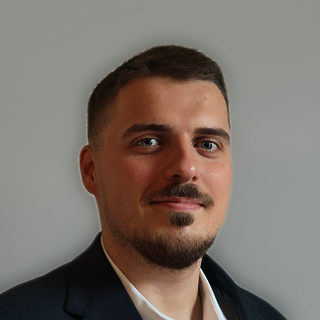
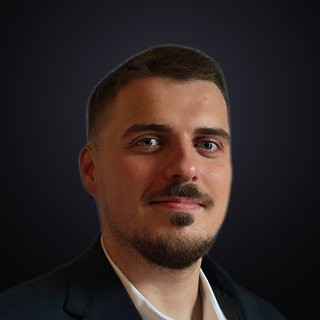
Das Porträt steht auf dem Grund der Seite, nicht auf einer Wand
Die erste Fassung sah aufgeklebt aus, und das lag nicht an der Aufnahme.
Die Seite steht auf #08080a; eine helle Wohnungswand darin war die einzige
helle Fläche der ganzen Seite und damit das Erste, was man sah — und alles
daneben wirkte dadurch mit ihr uneins.

Gegengeprüft, ob es an Schrift oder Farbe liegt: Über die ausgelieferte
Startseite gezählt drei Schriftfamilien (Geist 522 Vorkommen, Geist Mono
185, Instrument Serif 2 für die Akzentwörter) und sechs Textfarben, alle
aus den Token. Es gibt dort keine Abweichung. Fremd war nur das Bild.

Der Hintergrund ist jetzt ein Lichtschein hinter dem Kopf, der zu den
Rändern in die Seitenfarbe ausläuft. Das Haar (gemessen Helligkeit 26)
braucht oben etwas Helles, um sich abzuzeichnen; das Sakko (51 bis 60)
steht unten von selbst gegen das Dunkle. Der Mensch bleibt unverändert.

Die Maske musste dafür enger sitzen: In ihrem weichen Saum stecken Pixel
der hellen Wand, und auf fast schwarzem Grund wurden daraus ein Lichtkranz
um den Kopf. MinFilter 15 statt 5, dafür weniger Weichzeichnung.

Papier bleibt hell: Der One-Pager geht gedruckt an Firmen, und dort ist es
genau umgekehrt. `about.portraitPrint` trägt die Fassung mit heller Wand,
`about.portrait` die dunkle. Dieselbe Aufnahme, derselbe Zuschnitt.

Dazu die Platzierung. Das Bild stand allein in der linken Spalte, mit einer
leeren Fläche daneben bis zur Werdegangs-Spalte. Es steht jetzt neben dem
ersten Absatz: Die Sektion beginnt mit Gesicht und Aussage zugleich, unter
[…]

diff --git a/src/components/sections/About.tsx b/src/components/sections/About.tsx
@@ -42,28 +42,41 @@ export function About() {
         <div className="mt-14 grid gap-14 lg:grid-cols-[minmax(0,1fr)_minmax(0,24rem)] lg:gap-20">
           {/* Narrative */}
           <div className="flex flex-col gap-6">
-            {/* Porträt nur, wenn ein echtes hinterlegt ist, siehe site.ts */}
+            {/* Porträt und erster Absatz stehen nebeneinander.
+                Darunter stand das Bild allein in der linken Spalte, mit einer
+                leeren Fläche daneben bis zur Werdegangs-Spalte: Es sah
+                hineingelegt aus statt gesetzt. Neben dem Absatz füllt es die
+                Zeile, und die Sektion beginnt mit Gesicht und Aussage
+                zugleich. Unter 640 px stapelt es wie vorher.
+
+                Der Grund der Aufnahme ist die Farbe der Seite, nicht die Wand
+                dahinter — siehe `portraitPrint` in site.ts. Auf fast Schwarz
+                war die helle Wand die einzige helle Fläche der ganzen Seite
+                und damit das, was man zuerst sah. */}
             {about.portrait ? (
               <Reveal>
-                <div className="lit relative mb-2 w-fit overflow-hidden rounded-2xl border border-line">
+                <div className="mb-2 flex flex-col gap-6 sm:flex-row sm:items-center sm:gap-8">
                   <Image
                     src={about.portrait}
                     alt={site.name}
                     width={220}
                     height={220}
-                    sizes="220px"
-                    className="h-auto w-[13.75rem] object-cover"
+                    sizes="(max-width: 640px) 60vw, 220px"
+                    className="w-[13.75rem] max-w-[60vw] shrink-0 rounded-2xl object-cover"
                   />
+                  <p className="text-lg leading-relaxed text-ink text-pretty sm:text-xl">
+                    {about.paragraphs[0]}
+                  </p>
                 </div>
               </Reveal>
             ) : null}
 
-            {about.paragraphs.map((paragraph, i) => (
-              <Reveal key={i} delay={i * 0.06}>
+            {about.paragraphs.slice(about.portrait ? 1 : 0).map((paragraph, i) => (
+              <Reveal key={paragraph} delay={i * 0.06}>
                 <p
                   className={cn(
                     "leading-relaxed text-pretty",
-                    i === 0 ? "text-lg text-ink sm:text-xl" : "text-ink-dim",
+                    !about.portrait && i === 0 ? "text-lg text-ink sm:text-xl" : "text-ink-dim",
                   )}
                 >
                   {paragraph}

diff --git a/src/content/site.ts b/src/content/site.ts
@@ -102,7 +102,9 @@ export const about = {
    * Die Datei ist quadratisch, weil dieselbe Aufnahme auch als Profilbild auf
    * LinkedIn und GitHub steht und dort im Kreis beschnitten wird.
    */
-  portrait: "/portrait.jpg" as string,
+  portrait: "/portrait-dark.jpg" as string,
+  /* Fuer den One-Pager, der auf Papier geht. */
+  portraitPrint: "/portrait.jpg" as string,
   title: "Vier Jahre gelernt. Vier Monate ausgeliefert.",
   paragraphs: [
     `Softwareentwicklung habe ich mir ab 2022 selbst beigebracht: erst über strukturierte Kurse von Meta und Udemy, dann über eigene Projekte. Kein Informatikstudium, kein Bootcamp. 2026 ist daraus Ernst geworden: vier Produktionssysteme in ${bauzeit}, zwei davon mit Apps in beiden Stores, eines mit gesetzlich vorgeschriebener Fiskalisierung, entstanden neben einem Vollzeitjob.`,

diff --git a/src/content/en.ts b/src/content/en.ts
@@ -500,7 +500,8 @@ export const en: Content = {
 
   about: {
     eyebrow: "Who I am",
-    portrait: "/portrait.jpg",
+    portrait: "/portrait-dark.jpg",
+    portraitPrint: "/portrait.jpg",
     title: "Four years learning. Four months shipping.",
     paragraphs: [
       `I taught myself software engineering from 2022: first through structured courses from Meta and Udemy, then through my own projects. No computer science degree, no bootcamp. In 2026 it turned serious: four production systems in ${buildTime}, two of them shipping in both app stores, one carrying statutory fiscal signing, all of it built alongside a full-time job.`,

diff --git a/src/content/types.ts b/src/content/types.ts
@@ -123,6 +123,14 @@ export type Content = {
   about: {
     eyebrow: string;
     portrait: string;
+    /**
+     * Dieselbe Aufnahme auf hellem Grund, fuer Papier.
+     *
+     * Am Bildschirm steht die Seite auf fast Schwarz, und ein Portraet mit
+     * heller Wand ist darin die einzige helle Flaeche weit und breit — es
+     * sieht aufgeklebt aus. Gedruckt ist es genau umgekehrt.
+     */
+    portraitPrint: string;
     title: string;
     paragraphs: readonly string[];
     stats: readonly { value: string; label: string; note: string }[];

diff --git a/src/components/OnePager.tsx b/src/components/OnePager.tsx
@@ -140,9 +140,9 @@ export function OnePager({
                 156 px; das Bild bleibt darunter, und das Blatt bleibt eine
                 Seite. In Deutschland gehört ein Foto auf eine Bewerbung, und
                 dieses Blatt geht als PDF an Firmen. */}
-            {about.portrait ? (
+            {about.portraitPrint ? (
               <Image
-                src={about.portrait}
+                src={about.portraitPrint}
                 alt={site.name}
                 width={110}
                 height={110}
